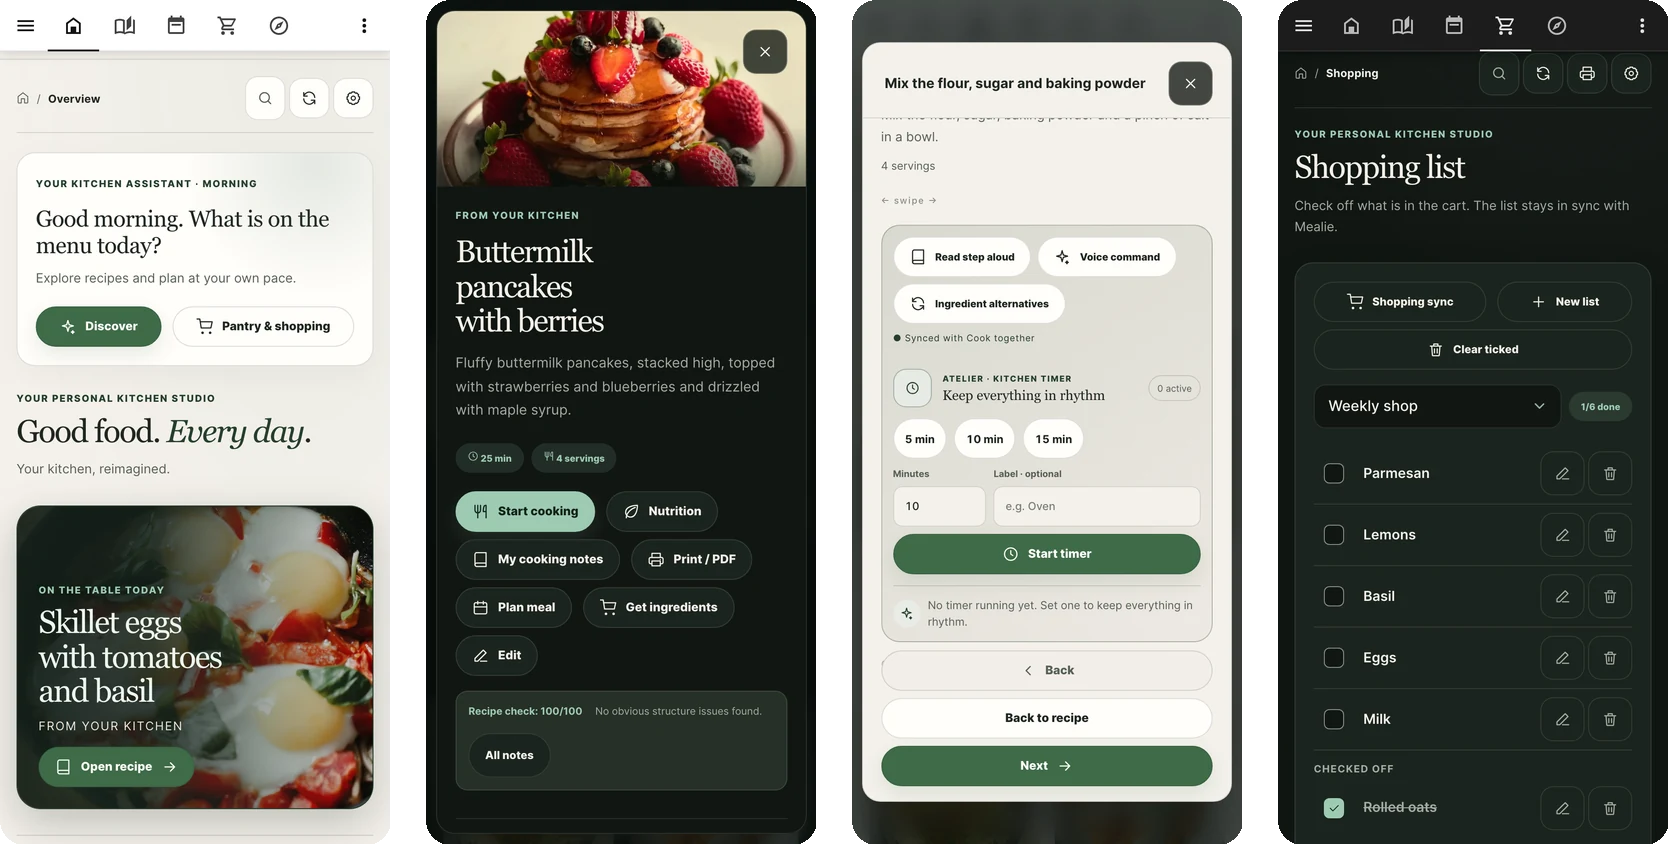
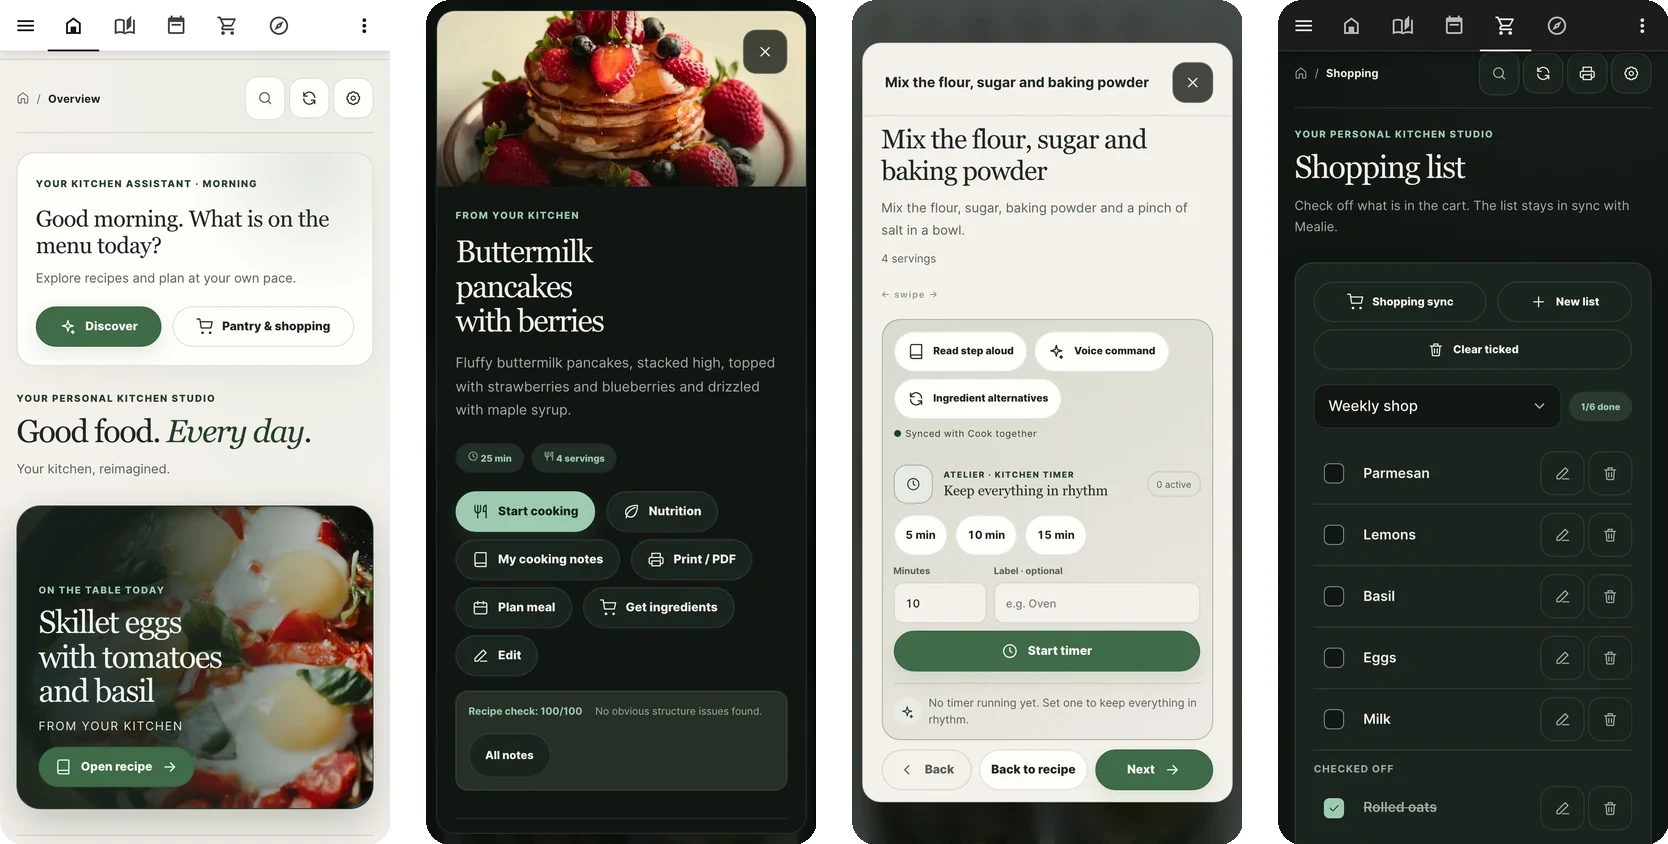
Recapture README screenshots: cooking phone without a half line, dashboard with the shared sidebar, whole Bring! dialog

Changed region(s): [[0.53, 0.154, 0.7482, 0.955], [0.53, 0.0924, 0.717, 0.1232], [0.6859, 0.5545, 0.717, 0.5853]]

diff --git a/scripts/capture-readme-shots.py b/scripts/capture-readme-shots.py
@@ -116,6 +116,39 @@ async def prepare_phone_boards() -> None:
                 raise SystemExit(f"dashboard config: {error}")
 
 
+# The sidebar every shot shows: Overview, Atelier, Kitchen, Map, Energy. The rig is shared with other captures
+# (German showcase, live tests) that rename and hide these dashboards, so each run puts them back.
+SIDEBAR = {
+    "map": {"title": "Map"},
+    "atelier_live": {"title": "Atelier", "show_in_sidebar": True},
+    "atelier_cards": {"title": "Kitchen", "show_in_sidebar": True},
+}
+
+
+async def set_profile_language() -> None:
+    """Pin the rig user's profile language to English.
+
+    The profile language wins over the browser locale. The German showcase capture leaves it on German, and
+    Home Assistant then labels the sidebar in German. The built-in map dashboard also keeps the German title it was
+    renamed to ("Karte"), which sorts it before "Kitchen" instead of after it, so the sidebar dashboards are reset.
+    """
+    async with cs.HaSocket(cs.BASE, cs.read_token(str(LIVE / "state" / "ha-token"))) as socket:
+        ok, error = await socket.call(
+            {"type": "frontend/set_user_data", "key": "language", "value": {"language": "en"}}
+        )
+        if not ok:
+            raise SystemExit(f"profile language: {error}")
+        _, boards = await socket.call({"type": "lovelace/dashboards/list"})
+        for board in boards or []:
+            wanted = SIDEBAR.get(board["id"])
+            if wanted and any(board.get(key) != value for key, value in wanted.items()):
+                ok, error = await socket.call(
+                    {"type": "lovelace/dashboards/update", "dashboard_id": board["id"], **wanted}
+                )
+                if not ok:
+                    raise SystemExit(f"sidebar dashboard {board['id']}: {error}")
+
+
 def sign_in(page) -> None:
     page.goto(f"{cs.BASE}/{cs.DASHBOARD}-light/dashboard")
     page.wait_for_url("**/auth/authorize**", timeout=30_000)
@@ -142,6 +175,9 @@ def set_sidebar(page, mode: str) -> None:
     page.evaluate(f"localStorage.setItem('dockedSidebar', JSON.stringify('{mode}'))")
     page.reload()
     page.wait_for_load_state("domcontentloaded")
+    if mode == "docked":
+        # The English sidebar names the map panel "Map"; wait for it so no shot is taken in another language.
+        page.get_by_text("Map", exact=True).first.wait_for(timeout=60_000)
 
 
 def view(page, theme: str, mode: str, board: str = cs.DASHBOARD) -> None:
@@ -304,19 +340,30 @@ def scroll_until_clean(page) -> None:
     raise SystemExit("no phone page scroll with a clean bottom edge")
 
 
-def scroll_cook_dialog(page) -> None:
-    """Scroll the cooking dialog (natural size) the fewest pixels that leave no tool or timer card under the step bar."""
+def scroll_cook_dialog(page, fit_viewport: bool = False) -> None:
+    """Scroll the cooking dialog (natural size) the fewest pixels that leave nothing cut at an edge.
+
+    Neither a tool or timer card under the step bar nor a half line of step text under the pinned title strip
+    (the sticky close button draws it) may be sliced by the scroll position. On a phone the last scroll position
+    can still leave a line astride the strip, so the viewport is shortened (same aspect) until one position is clean.
+    """
     modal = page.locator(".modal >> visible=true").first
-    top = modal.evaluate(
+    find = (
         "(m, [cuts, limit]) => { m.style.transition = 'none';"
-        " for (let t = 0; t <= limit; t += 1) { m.scrollTop = t; if (eval(cuts)(m, false) === 0) return t; }"
-        " return -1; }",
-        [CUTS, 500],
+        " for (let t = 0; t <= limit; t += 1) { m.scrollTop = t; if (eval(cuts)(m, true) === 0) return t; }"
+        " return -1; }"
     )
-    if top < 0:
-        raise SystemExit("no cooking dialog scroll without a cut card")
-    print("cooking dialog scroll", top)
-    page.wait_for_timeout(400)
+    heights = range(PHONE["height"], PHONE["height"] - 200, -2) if fit_viewport else [None]
+    for height in heights:
+        if height is not None:
+            page.set_viewport_size({"width": round(height * PHONE["width"] / PHONE["height"]), "height": height})
+            page.wait_for_timeout(180)
+        top = modal.evaluate(find, [CUTS, 800])
+        if top >= 0:
+            print("cooking dialog scroll", top, "viewport height", height)
+            page.wait_for_timeout(400)
+            return
+    raise SystemExit("no cooking dialog scroll without a cut card or a half line")
 
 
 def fit_desktop_viewport(page, check) -> None:
@@ -338,6 +385,7 @@ def shot(page, tmp: Path) -> Path:
 def main() -> None:
     asyncio.run(cs.prepare())
     asyncio.run(prepare_phone_boards())
+    asyncio.run(set_profile_language())
     tmp = Path(sys.argv[0]).resolve().parent / ".shot.png"
     desktop = [
         ("dashboard-light", "light", "dashboard", None),
@@ -398,7 +446,7 @@ def main() -> None:
                     modal = page.locator(".modal >> visible=true").first
                     if step == "cook":
                         start_cooking(page)
-                        scroll_cook_dialog(page)
+                        scroll_cook_dialog(page, True)
                     else:
                         modal.evaluate("m => { m.scrollTop = 0; }")
                         fit_phone_viewport(page, lambda: modal.evaluate(CUTS, False))

diff --git a/scripts/capture-bring-showcase.py b/scripts/capture-bring-showcase.py
@@ -6,7 +6,9 @@ Runs the standalone web app on ports 5190 (fake Bring!) and 5191 (app) against a
 fictional list "Wocheneinkauf" (German) and walks the real connect dialog with the fake Bring! server
 (web/test/support/fake-bring-server.mjs, account familie.beispiel@example.com). The English run adds a
 temporary Mealie list "Weekly shop" and removes it again. Nothing real is contacted. The dialog is captured in its
-connected state: a wide one for the browser frame and a phone one.
+connected state: a wide one for the browser frame and a phone one. The English wide run also writes
+web/assets/bring-account.webp (the web README image): the whole dialog with README_MARGIN css pixels above and below its
+borders, so the bottom border and the rounded corners show.
 """
 
 from __future__ import annotations
@@ -29,6 +31,8 @@ MEALIE, TOKEN_FILE = sys.argv[1], sys.argv[2]
 OUT = Path(sys.argv[3]) if len(sys.argv) > 3 else ROOT / "demo" / "showcase"
 TOKEN = Path(TOKEN_FILE).read_text().strip()
 FAKE_PORT, APP_PORT = 5190, 5191
+README_SHOT = ROOT / "web" / "assets" / "bring-account.webp"
+README_MARGIN = 48  # css pixels kept below the dialog's bottom border
 EMAIL, PASSWORD = "familie.beispiel@example.com", "fixture-bring-password"
 LOCALES = {
     "de": {"locale": "de-DE", "list": "Wocheneinkauf", "shop": "Einkauf", "nav": "Einkauf"},
@@ -80,7 +84,13 @@ def save(png: Path, name: str, locale: str, widths: list[int], crop_height: int 
     return image.size
 
 
-def connect(browser, lang: str, viewport: dict, scale: int, shot: Path):
+def readme_clip(width: int, dialog_top: float, dialog_bottom: float) -> dict:
+    """The clip of the README image: the full width, the dialog with a margin above and below its borders."""
+    top = max(0, round(dialog_top - README_MARGIN))
+    return {"x": 0, "y": top, "width": width, "height": round(dialog_bottom + README_MARGIN) - top}
+
+
+def connect(browser, lang: str, viewport: dict, scale: int, shot: Path, readme: Path | None = None):
     spec = LOCALES[lang]
     context = browser.new_context(
         locale=spec["locale"],
@@ -119,6 +129,14 @@ def connect(browser, lang: str, viewport: dict, scale: int, shot: Path):
         page.locator('[data-action="sync-bring-disconnect-ask"]').wait_for()
         page.wait_for_timeout(1500)
         page.screenshot(path=str(shot))
+        if readme:
+            # A taller viewport lets the whole dialog show, whatever its height, before it is measured.
+            page.set_viewport_size({"width": viewport["width"], "height": 1400})
+            page.wait_for_timeout(600)
+            top, bottom = page.locator('[role="dialog"]').first.evaluate(
+                "el => { const r = el.getBoundingClientRect(); return [r.top, r.bottom]; }"
+            )
+            page.screenshot(path=str(readme), clip=readme_clip(viewport["width"], top, bottom))
     except Exception:
         page.screenshot(path=str(shot.with_suffix(".fail.png")))
         raise
@@ -167,8 +185,14 @@ def main():
                         try:
                             wait_port(APP_PORT)
                             png = tmp / f"{lang}-{kind}.png"
-                            connect(browser, lang, viewport, 2, png)
+                            readme = tmp / "readme-bring-account.png" if lang == "en" and kind == "wide" else None
+                            connect(browser, lang, viewport, 2, png, readme)
                             save(png, name, lang, widths, 858 if kind == "wide" else 0)
+                            if readme:
+                                image = Image.open(readme).convert("RGB")
+                                README_SHOT.parent.mkdir(parents=True, exist_ok=True)
+                                image.save(README_SHOT, "WEBP", quality=86, method=6)
+                                print("en readme bring-account", image.size)
                         finally:
                             app.terminate()
                             app.wait(10)
